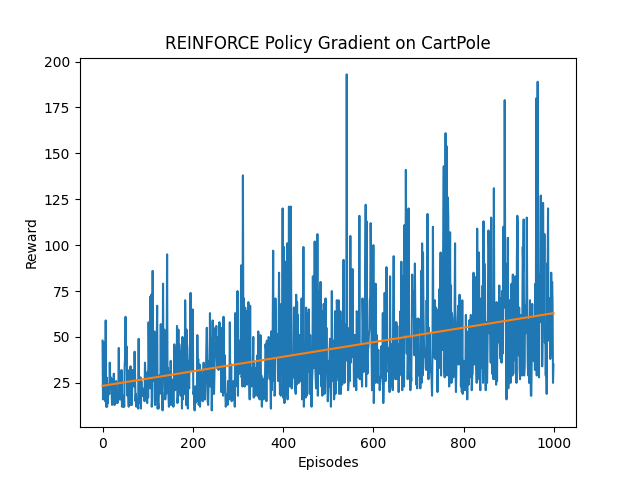
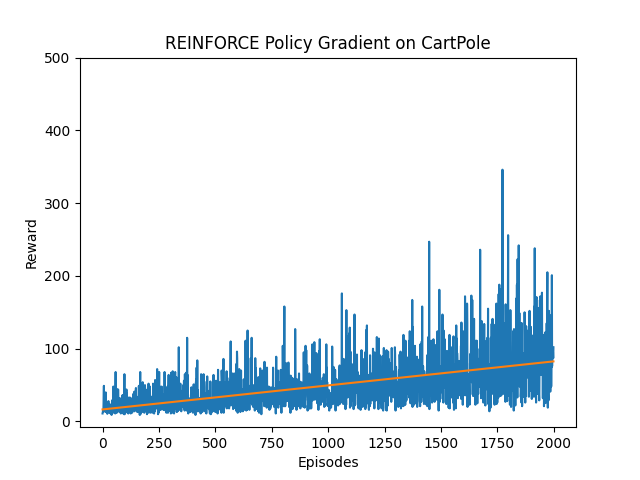
Add REINFORCE with baseline, reward graphs, results

diff --git a/reinforce_baseline.py b/reinforce_baseline.py
@@ -1,5 +1,6 @@
 import torch
 import torch.nn as nn
+import torch.nn.functional as F
 import gymnasium as gym
 import numpy as np
 import matplotlib.pyplot as plt
@@ -21,11 +22,26 @@ SEED = 11
 # Solved Score
 SOLVED_SCORE = 195
 # Model path
-PATH = './models/reinforce.pth'
+PATH = './models/reinforce_baseline.pth'
 # Environment
 env = gym.make('CartPole-v1', render_mode='rgb_array')
 state_dim = env.observation_space.shape[0]
 action_dim = env.action_space.n
+
+# State-Value Network as Baseline -> V(s)
+class Baseline(nn.Module):
+    def __init__(self, state_dim):
+        super().__init__()
+        self.layers = nn.Sequential(
+            nn.Linear(state_dim, 128),
+            nn.ReLU(),
+            nn.Linear(128, 1)
+        )
+
+    def forward(self, x):
+        x = torch.from_numpy(x)
+        x = self.layers(x)
+        return x.squeeze()
 
 # Policy Network: S -> pi(A|S)
 class Policy(nn.Module):
@@ -49,7 +65,7 @@ class Policy(nn.Module):
     def get_action(self, actions):
         return np.random.choice(self.action_dim, p=actions.detach().numpy())
 
-
+# returns cumulative rewards throughout sampled episode
 def get_cumulative_rewards(rewards):
     cr = [rewards[-1]]
     for i in range(len(rewards)-2, -1, -1):
@@ -58,49 +74,65 @@ def get_cumulative_rewards(rewards):
     return cr
 
 def train():
-    model = Policy(state_dim, action_dim)
-    optim = torch.optim.SGD(model.parameters(), lr=LR)
-    model.train()
+    policy = Policy(state_dim, action_dim)
+    baseline = Baseline(state_dim)
+    policy_optim = torch.optim.SGD(policy.parameters(), lr=LR)
+    baseline_optim = torch.optim.SGD(baseline.parameters(), lr=LR)
+    criterion = torch.nn.MSELoss()
+
+    policy.train()
+    baseline.train()
 
     total_rewards = []
     for episode in range(EPISODES):
         state = env.reset(seed=SEED)[0]
         log_probs = []
         rewards = []
+        values = []
         # run trajectory through episode
         for _ in range(MAX_STEPS):
-            action, log_prob = model(state)
+            action, log_prob = policy(state)
+            value = baseline(state)
 
             next_s, r, done, _, _ = env.step(action)
 
             log_probs.append(log_prob)
             rewards.append(r)
+            values.append(value)
 
             state = next_s
             if done:
                 break
 
-        # update policy parameters
-        optim.zero_grad()
-        cumulative_rewards = torch.tensor(get_cumulative_rewards(rewards))
+        values = torch.stack(values)
         log_probs = torch.stack(log_probs)
-        policy_loss = -(log_probs * cumulative_rewards).mean()
+        cumulative_rewards = torch.tensor(get_cumulative_rewards(rewards))
+
+        # update baseline parameters
+        baseline_optim.zero_grad()
+        baseline_loss = criterion(values, cumulative_rewards)
+        baseline_loss.backward()
+        baseline_optim.step()
+
+        # update policy parameters
+        policy_optim.zero_grad()
+        policy_loss = -(log_probs * (cumulative_rewards - values).detach()).mean()
         policy_loss.backward()
-        optim.step()
+        policy_optim.step()
 
         total_rewards.append(np.sum(rewards))
         mean = np.mean(total_rewards[-100:])
         if episode % 100 == 0:
             print(f'EPISODE: {episode}, MEAN: {mean}')
         if mean > 195:
-            print('Game Solved at Episode {episode}')
+            print(f'Game Solved at Episode {episode}')
             break
     
     # plot results
     plt.plot(total_rewards)
     plt.xlabel('Episodes')
     plt.ylabel('Reward')
-    plt.title('REINFORCE Policy Gradient on CartPole')
+    plt.title('REINFORCE with Baseline Policy Gradient on CartPole')
     plt.xlim(right=2000)
     plt.ylim(top=500)
     reg = LinearRegression().fit(
@@ -110,14 +142,14 @@ def train():
     plt.plot(reg.predict(np.reshape(np.arange(len(total_rewards)), (-1, 1))))
     plt.show()
 
-    torch.save(model.state_dict(), PATH)
+    torch.save(policy.state_dict(), PATH)
 
 def eval():
-    model = Policy(state_dim, action_dim)
-    model.eval()
+    policy = Policy(state_dim, action_dim)
+    policy.eval()
 
     if os.path.exists(PATH):
-        model.load_state_dict(torch.load(PATH))
+        policy.load_state_dict(torch.load(PATH))
 
     eval_episodes = 30
     eval_steps = 10000
@@ -126,7 +158,7 @@ def eval():
         state = env.reset(seed=SEED)[0]
         rewards = []
         for _ in range(eval_steps):
-            action = model(state)[0]
+            action = policy(state)[0]
 
             next_s, r, done, _, _ = env.step(action)
 
